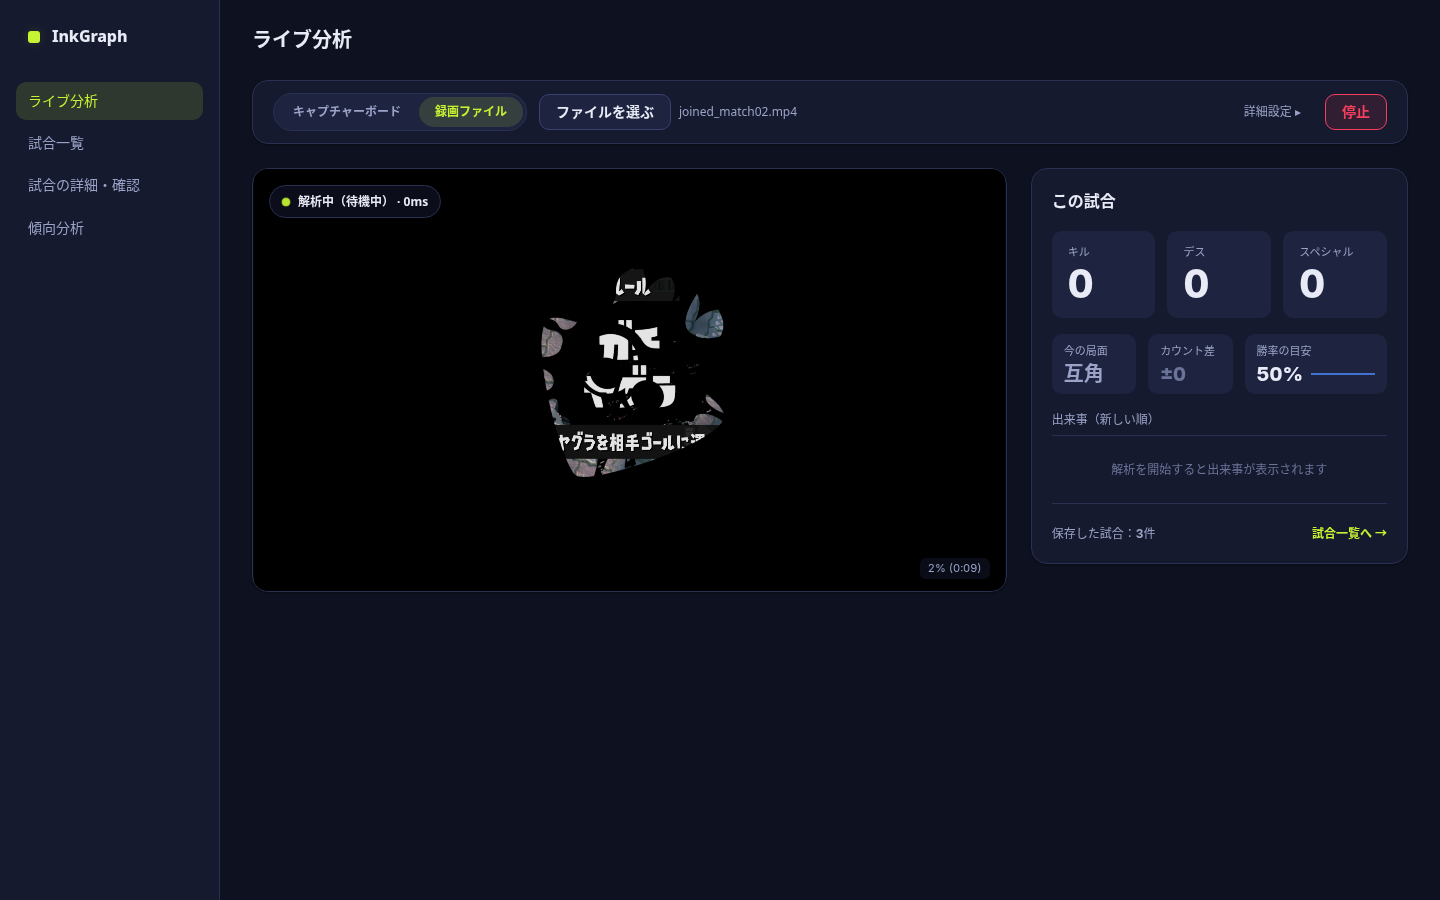
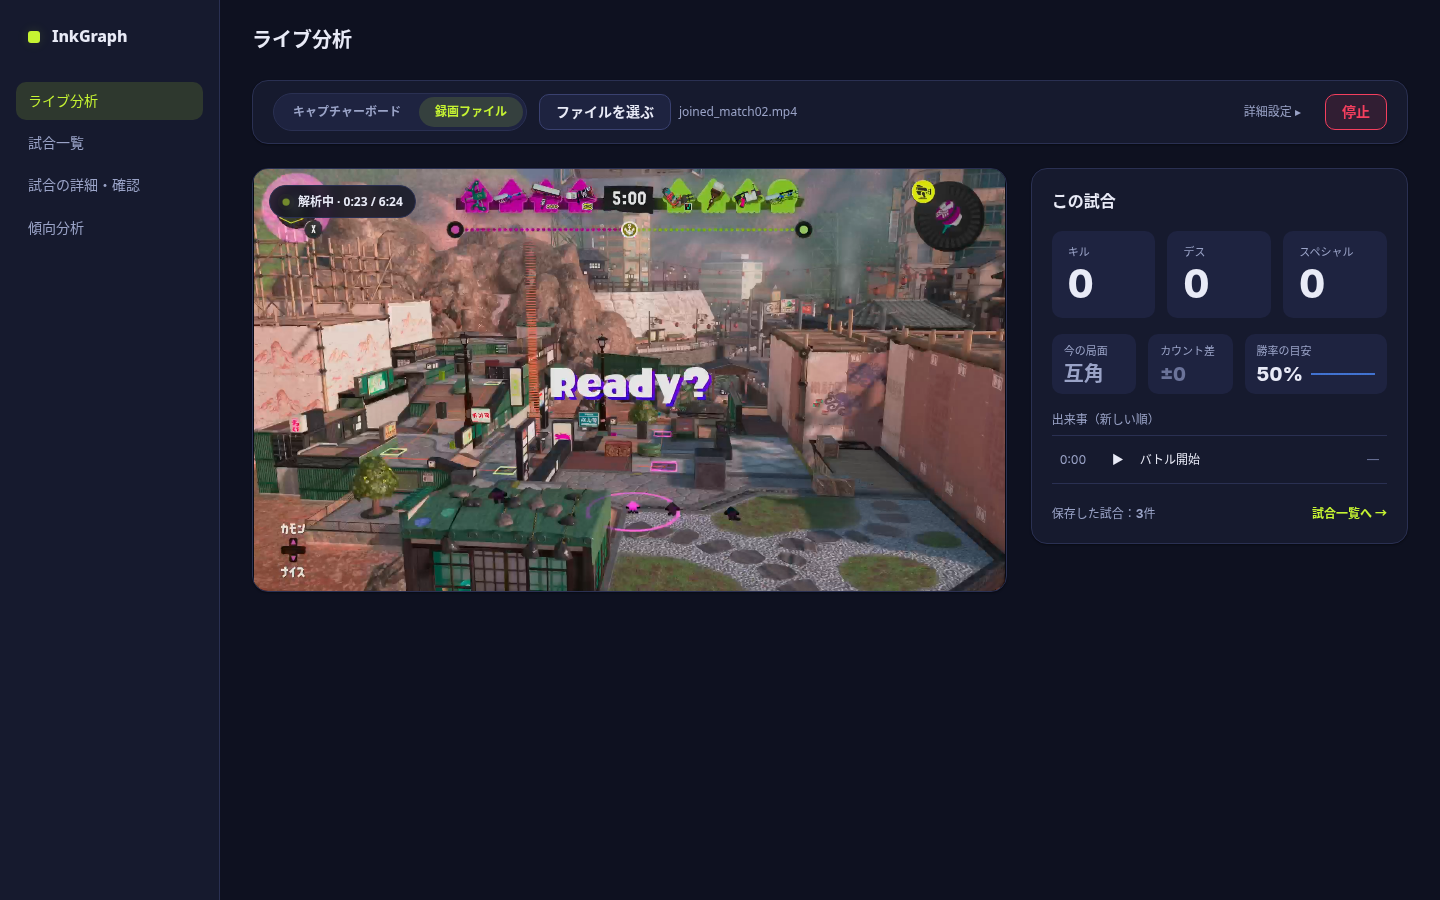
UI redesign: live status badge states, K/D header-only in situation tables, review track, playwright UI checks, recaptured screenshots (agy)

Changed region(s): [[0.1562, 0.1867, 0.8125, 0.6844], [0.75, 0.4978, 0.9062, 0.5289], [0.9062, 0.56, 0.9688, 0.6222]]

diff --git a/web/src/main.js b/web/src/main.js
@@ -173,7 +173,6 @@ PAGES.live = async () => {
           <button class="btn" id="video-pick-file" type="button">録画ファイルを選ぶ</button>
         </div>
         <video id="v" playsinline muted></video>
-        <div id="prog" class="video-progress-overlay num"></div>
       </div>
 
       <div class="card live-match-card">
@@ -310,7 +309,7 @@ PAGES.live = async () => {
       alert('録画ファイルを選んでください');
       return;
     }
-    let k = 0, d = 0, sp = 0, t0 = 0, estWp = 0.5;
+    let k = 0, d = 0, sp = 0, t0 = 0, estWp = 0.5, justSaved = false;
     $('#k', page).textContent = '0';
     $('#d', page).textContent = '0';
     $('#sp', page).textContent = '0';
@@ -346,14 +345,27 @@ PAGES.live = async () => {
         $('#sp', page).textContent = sp;
       },
       status: m => {
-        const label = { idle: '解析中（待機中）', battle: '解析中（バトル中）', result: '解析中（リザルト読み取り）' }[m.state] || '解析中';
-        $('#state', page).textContent = `${label} · ${m.ms.toFixed(0)}ms`;
+        if (m.state === 'battle' || m.state === 'result') justSaved = false;
+        if (justSaved) return;
+        const dot = $('#live-dot', page), st = $('#state', page);
+        if (m.state === 'idle') {
+          dot.className = 'status-dot-idle'; dot.style.background = 'var(--text-muted)';
+          st.textContent = '試合の開始を待っています';
+          return;
+        }
+        dot.className = 'pulse-dot'; dot.style.background = '';
+        const dur = $('#v', page).duration;
+        st.textContent = session?.mode === 'file'
+          ? `解析中 · ${mss($('#v', page).currentTime)}${isFinite(dur) ? ' / ' + mss(dur) : ''}`
+          : `解析中 · 経過 ${mss(session ? session.now() : 0)}`;
       },
-      progress: (p, t) => {
-        $('#prog', page).textContent = `${Math.round(p * 100)}% (${mss(t)})`;
-      },
+      
       match: rec => {
         savedCount++;
+        justSaved = true;
+        $('#live-dot', page).className = 'status-dot-idle';
+        $('#live-dot', page).style.background = 'var(--kill)';
+        $('#state', page).textContent = '保存しました';
         const ev = effective(rec);
         $('#k', page).textContent = ev.filter(x => x.kind === 'kill').length;
         $('#d', page).textContent = ev.filter(x => x.kind === 'death').length;
@@ -376,7 +388,9 @@ PAGES.live = async () => {
         $('#start', page).style.display = 'inline-flex';
         $('#stop', page).disabled = true;
         $('#stop', page).style.display = 'none';
+        if (justSaved) return;
         $('#live-dot', page).className = 'status-dot-idle';
+        $('#live-dot', page).style.background = '';
         $('#state', page).textContent = '停止しました';
       }
     });
@@ -386,6 +400,7 @@ PAGES.live = async () => {
     $('#stop', page).disabled = false;
     $('#stop', page).style.display = 'inline-flex';
     $('#live-dot', page).className = 'pulse-dot';
+    $('#live-dot', page).style.background = '';
     $('#state', page).textContent = '解析中';
     try {
       await session.start({
@@ -1262,7 +1277,7 @@ PAGES.trend = async () => {
                 </div>
               </div>
               <div class="div-meta">
-                <span class="num">キル÷デス ${x.kd}</span>
+                <span class="num">${x.kd}</span>
                 <span class="num ${lossFmt.cls}">${lossFmt.text}</span>
               </div>
             </div>`;
@@ -1294,7 +1309,7 @@ PAGES.trend = async () => {
                 </div>
               </div>
               <div class="div-meta" style="min-width:132px">
-                <span class="num">キル÷デス ${x.kd}</span>
+                <span class="num">${x.kd}</span>
               </div>
             </div>`;
         }).join('')}

diff --git a/web/src/style.css b/web/src/style.css
@@ -799,7 +799,7 @@ button, input, select {
   flex: 1;
   min-width: 72px;
   max-width: 120px;
-  height: 6px;
+  height: 8px;
   background: var(--surface-2);
   border-radius: var(--r-pill);
   overflow: hidden;

diff --git a/docs/AGY_LOG.md b/docs/AGY_LOG.md
@@ -9,6 +9,8 @@
 | 3 | 2026-10-17 | UI刷新 4画面（index.html / style.css / main.js / timeline.js / screenshots.mjs）を Designer 仕様 spec.md + tokens.css に合わせて書き換え | 既定モデル（--effort high） | 複数ファイルを1回でまとめて依頼（要件を5項目・約30行、フォントフォールバックのスタックは具体値で指定） | 成功。ビルドが通り、スクショ4枚を自分で撮影・見直しまで実施（約14分）。約2,900行追加 | なし（差分とスクショの確認のみ）。analysis.js の RESULT_FIELDS から ka を外した変更はそのまま採用（画面にキル+アシストを出さない仕様。resultOf の ka は内部に残る） | 仕様1回＋待機＋スクショ4枚・差分確認（約8回） |
 | 4 | 2026-10-17 | Designerレビュー反映（P1〜P3・.btn-stop・ingest_feedbackのka未確認化・D18・スクショ8枚） | 既定モデル（--effort high） | 9項目（A〜I）を1回でまとめて依頼（約35行） | 途中で失敗。約10分後に quota 429（Individual quota reached、リセットまで約163時間）で停止し、A/C/E/F とBの一部まで反映済み | — | 仕様1回＋失敗の調査（約3回） |
 | 5 | 2026-10-17 | #4 の続き（作業ツリーの途中差分を確認させてから残りを完了） | claude-sonnet-5-5-medium | #4 と同じプロンプト＋「中断した作業の続き」の前置き | 成功（約1.5分）。B/D/G/H/I を完了し、ビルド・py_compile・スクショ8枚まで実施 | なし（スクショ7枚と差分を確認） | 再依頼1回＋確認（約9回） |
+| 6 | 2026-10-17 | Designer最終修正（ライブの状態バッジ、状況別表のキル÷デスを列見出しに、確認バーのトラック）＋ playwright での操作確認（ui_check.mjs）＋スクショ8枚の撮り直し | claude-sonnet-5-5-medium | 4項目を1回で依頼（約15行） | 成功（約2.5分）。操作確認3/3 PASS（ファイル選択ダイアログ、ツールチップ、「…」→削除→確認→行が1つ減る） | なし（スクショ3枚と差分を確認） | 仕様1回＋確認（約6回） |
+
 ## 所感
 - 委任前（Web版の検出器移植・UI・検証ツール）は Grok が直接書いた：ツール呼び出し約35回。
 - 単一ファイル・入出力が明確なタスクは flash でも一発で通る。ドキュメントは事実を箇条書きで渡すと正確。
